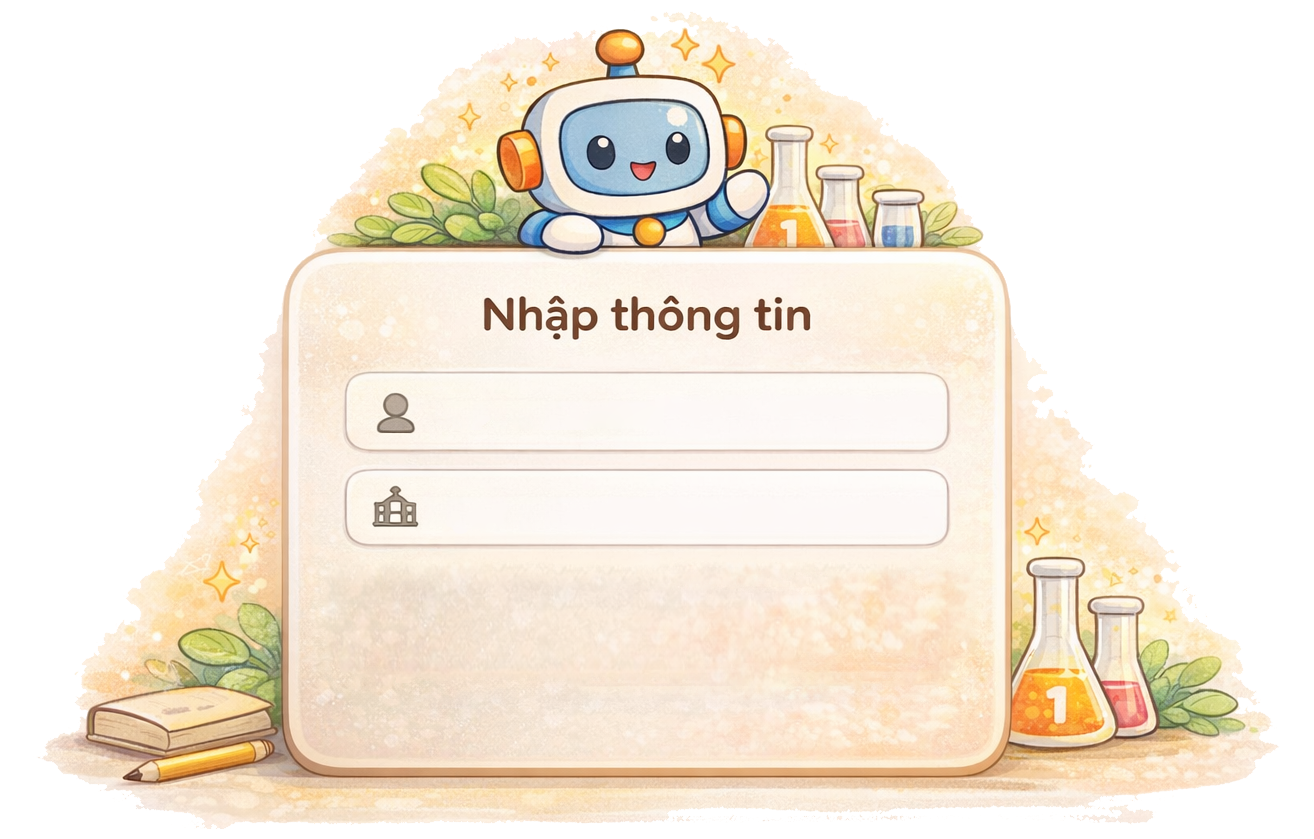
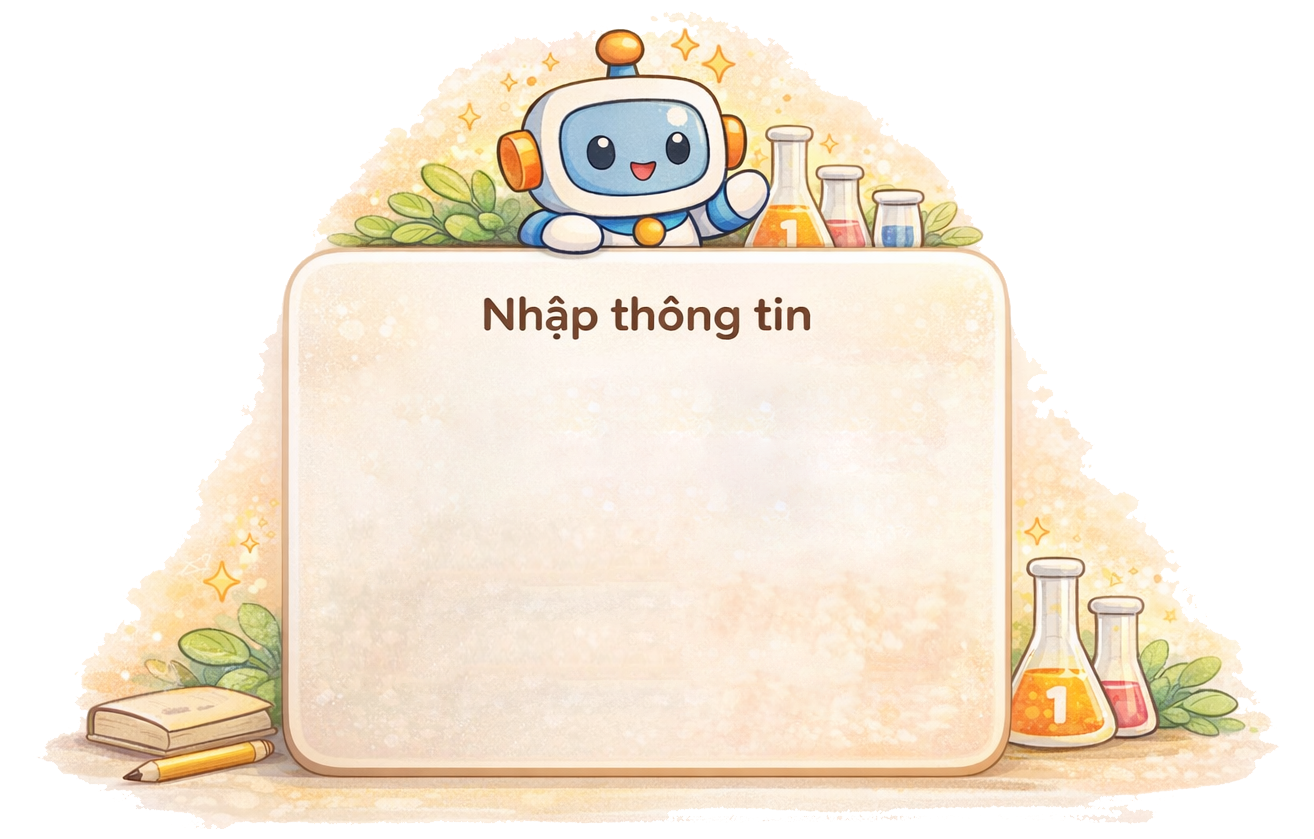
udpate

diff --git a/src/screens/LamBai/LamBai.jsx b/src/screens/LamBai/LamBai.jsx
@@ -19,6 +19,7 @@ const LamBai = () => {
   const { lessonId } = useParams();
   const navigate = useNavigate();
   const { width, height } = useWindowSize();
+  console.log("🚀 ~ LamBai ~ height:", height)
 
   const [questions, setQuestions] = useState([]);
   const [answers, setAnswers] = useState({});
@@ -285,25 +286,24 @@ const LamBai = () => {
 
       {showModal && (
         <div className="quiz-modal">
-          <div className="quiz-modal-content" style={{ backgroundImage: `url(/image/form-box.png)`, backgroundSize: "cover", backgroundPosition: 'center', width: width * 0.3, height: width * 0.3 / 1314 * 839 }}>
+          <div className="quiz-modal-content" style={{ backgroundImage: `url(/image/form-box.png)`, backgroundSize: "cover", backgroundPosition: 'center' }}>
             <CloseModal onClick={() => navigate(-1)} />
-            <input
-              className="quiz-modal-content-name"
-              style={{ height: width * 0.3 / 1314 * 839 * 0.01 ,fontSize:width*0.01}}
-              placeholder="Tên"
-              onChange={(e) => setStudentInfo({ ...studentInfo, name: e.target.value })}
-            />
-
-            <input
-              className="quiz-modal-content-class"
-              style={{ height: width * 0.3 / 1314 * 839 * 0.01 ,fontSize:width*0.01}}
-              placeholder="Lớp"
-              onChange={(e) => setStudentInfo({ ...studentInfo, class: e.target.value })}
-            />
-
-            <button className="quiz-modal-content-start" onClick={confirmStart} style={{ backgroundImage: `url(/image/start.png)`, backgroundSize: "cover", backgroundPosition: 'center', width: width * 0.16, height: width * 0.16 / 616 * 106 }}>
-            </button>
-
+            <div className="quiz-modal-content-name" style={{ backgroundImage: `url(/image/input-name.png)` }} >
+              <input
+                style={{ fontSize: width * 0.009 }}
+                placeholder="Tên"
+                onChange={(e) => setStudentInfo({ ...studentInfo, name: e.target.value })}
+              />
+            </div>
+            <div className="quiz-modal-content-class" style={{ backgroundImage: `url(/image/input-name.png)` }} >
+              <input
+                style={{ fontSize: width * 0.009 }}
+                placeholder="Lớp"
+                onChange={(e) => setStudentInfo({ ...studentInfo, class: e.target.value })}
+              />
+            </div>
+            <div className="quiz-modal-content-start" onClick={confirmStart} style={{ backgroundImage: `url(/image/start.png)`}}>
+            </div>
           </div>
         </div>
       )}

diff --git a/src/screens/LamBai/LamBai.css b/src/screens/LamBai/LamBai.css
@@ -22,7 +22,7 @@
     overflow: hidden;
     text-overflow: ellipsis;
     font-weight: bold;
-    
+
 }
 
 .count {
@@ -160,44 +160,70 @@
 
 .quiz-modal-content {
     position: relative;
+    aspect-ratio: 1314 / 839;
+    width: 30%;
 }
 
 .quiz-modal-content-name {
     position: absolute;
-    top: 46.5%;
-    left: 34%;
-    right: 28%;
+    width: 50%;
+    aspect-ratio: 610 / 79;
+    top: 45%;
+    left: 25%;
+    align-items: center;
+    display: flex;
+    overflow: hidden;
+    background-size: cover;
+    background-position: center;
+}
+
+.quiz-modal-content-name input {
+    position: absolute;
+    right: 0;
+    width: 75%;
+    background-color: transparent;
     border: none !important;
     outline: none !important;
     box-shadow: none !important;
     /* 👈 QUAN TRỌNG NHẤT */
-    background-color: transparent;
-
 }
 
 .quiz-modal-content-class {
     position: absolute;
-    top: 58%;
-    left: 34%;
-    right: 28%;
+    width: 50%;
+    aspect-ratio: 610 / 79;
+    top: 56%;
+    left: 25%;
+    align-items: center;
+    display: flex;
+    overflow: hidden;
+    background-size: cover;
+    background-position: center;
+}
+
+.quiz-modal-content-class input {
+    position: absolute;
+    right: 0;
+    width: 75%;
+    background-color: transparent;
     border: none !important;
     outline: none !important;
     box-shadow: none !important;
     /* 👈 QUAN TRỌNG NHẤT */
-    background-color: transparent;
-
 }
 
 .quiz-modal-content-start {
     position: absolute;
     top: 70%;
     left: 25%;
-    right: 25%;
     border: none !important;
     outline: none !important;
     box-shadow: none !important;
-    background-color: transparent;
     /* 👈 QUAN TRỌNG NHẤT */
+    background-size: cover;
+    background-position: center;
+    width: 50%;
+    aspect-ratio: 616 / 106
 }
 
 
@@ -282,5 +308,29 @@
 
 /* khi click */
 .quiz-send:active {
+    transform: scale(0.95);
+}
+
+
+
+.clock {
+    cursor: pointer;
+    /* 👈 hiện bàn tay */
+    user-select: none;
+    /* 👈 không bị bôi đen text */
+
+    transition: all 0.2s ease;
+    /* 👈 mượt */
+    opacity: 0.9;
+}
+
+/* hover */
+.clock:hover {
+    transform: translateY(-2px);
+    opacity: 1;
+}
+
+/* khi click */
+.clock:active {
     transform: scale(0.95);
 }
